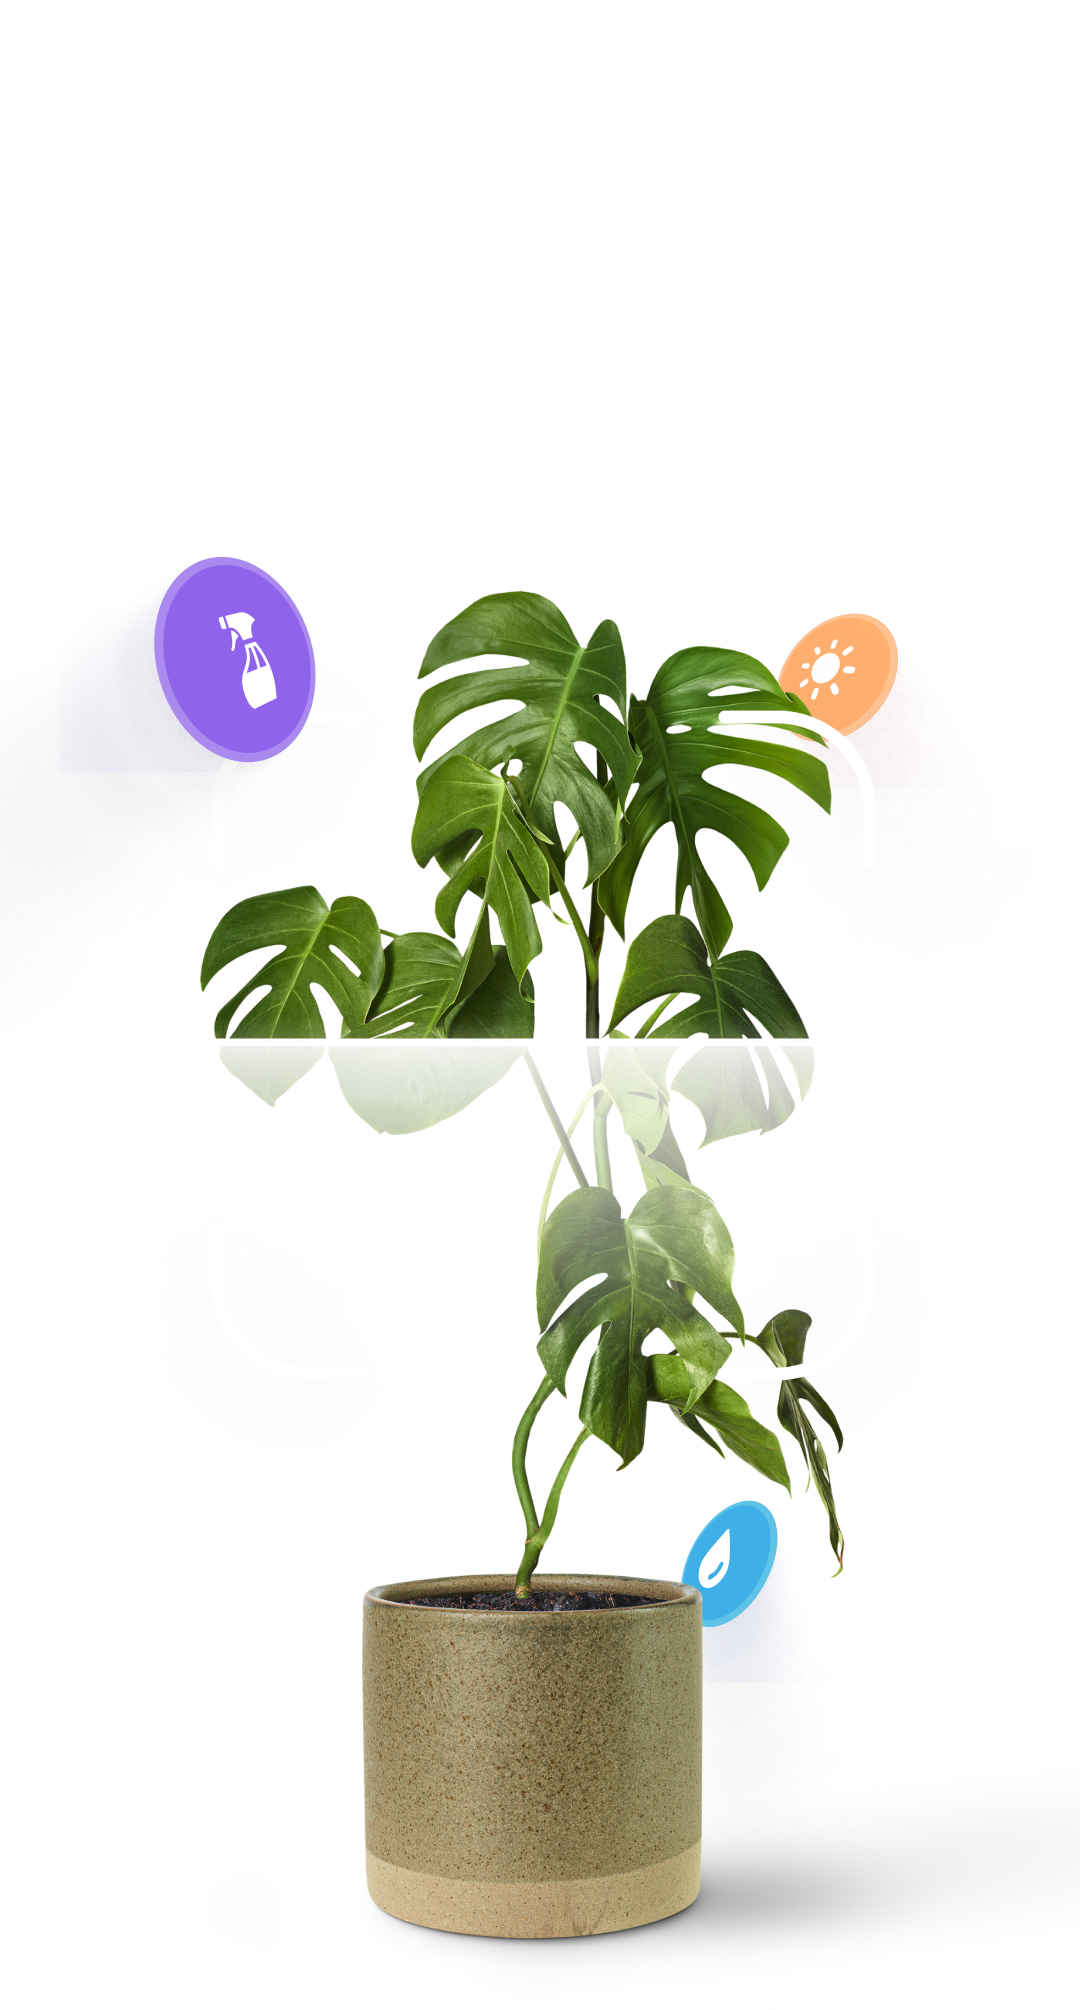
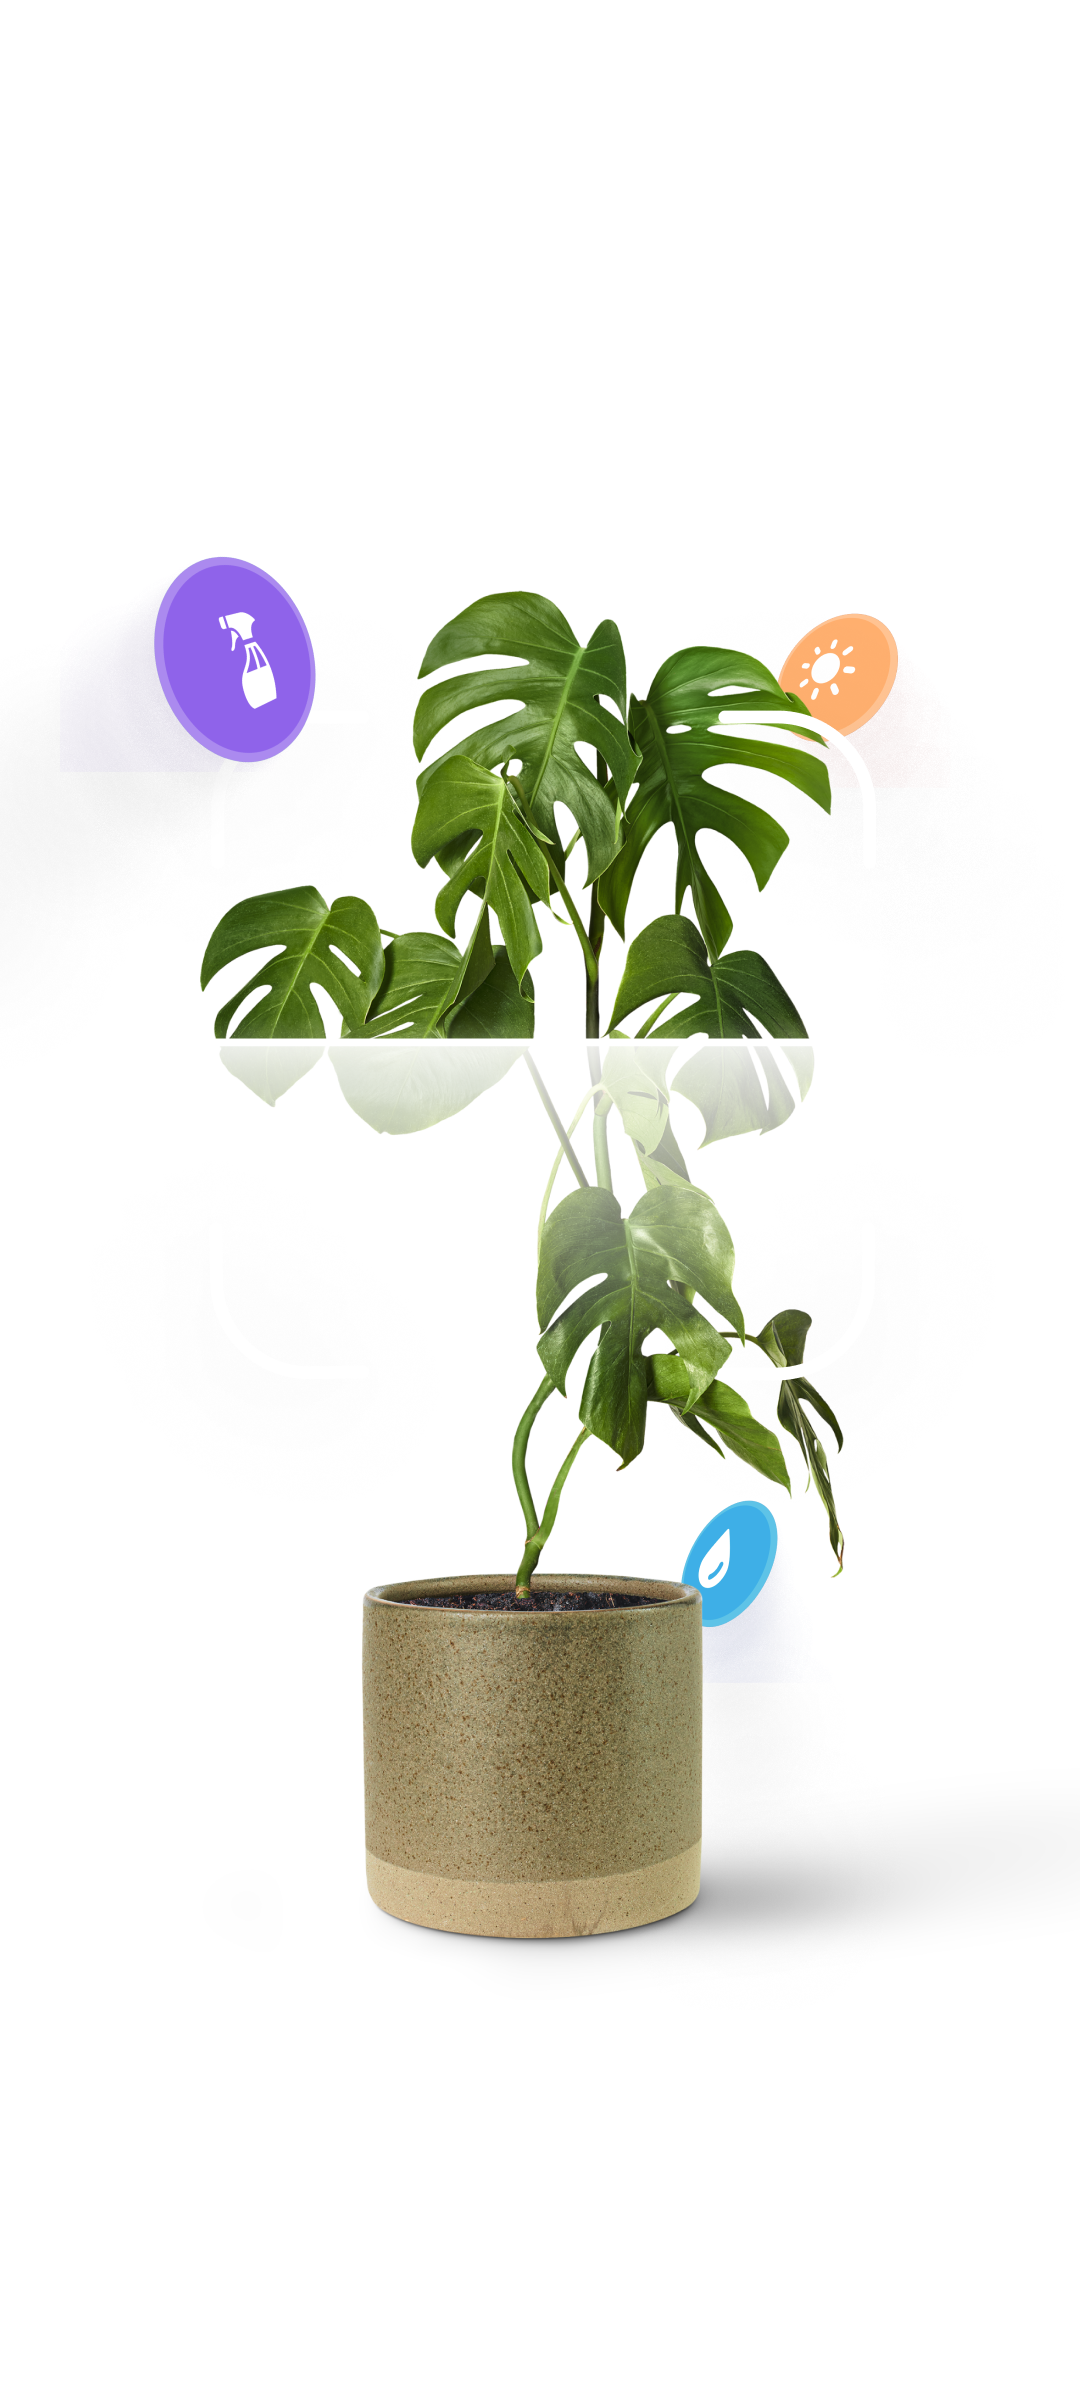
Refactor onboarding layout and implement content widgets
- Refactor `OnboardingWrapper` to use a `Stack` layout, allowing content to overlay full-screen background images
- Create `onboarding_components.dart` containing `OnboardingBodyContent` and `OnboardingFooterContent` with clickable Terms of Use and Privacy Policy links
- Update `OnboardingScreen` to initialize a `PageController` and integrate the new body and footer widgets into the component list
- Update binary image assets for Get Started and Onboarding backgrounds

Changed region(s): [[0.1222, 0.2159, 0.8556, 0.9871]]

diff --git a/lib/features/onboarding/presentation/widgets/onboarding_components.dart b/lib/features/onboarding/presentation/widgets/onboarding_components.dart
@@ -1,0 +1,96 @@
+import 'package:auto_size_text/auto_size_text.dart';
+import 'package:flutter/gestures.dart';
+import 'package:flutter/material.dart';
+import 'package:flutter_screenutil/flutter_screenutil.dart';
+
+class OnboardingBodyContent extends StatelessWidget {
+  const OnboardingBodyContent({required this.pageController, super.key});
+
+  final PageController pageController;
+
+  @override
+  Widget build(BuildContext context) {
+    return SizedBox(
+      height: .2.sh,
+      width: double.infinity,
+      child: Column(
+        crossAxisAlignment: CrossAxisAlignment.start,
+        children: [
+          //Take a photo to <b>identify</b>
+          // the plant!
+          //AutoSizeText.rich(
+          //  textScaleFactor: 1,
+          //  style: TextStyle(fontSize: 28.sp),
+          //  minFontSize: 8,
+          //  overflow: TextOverflow.ellipsis,
+          //  const TextSpan(
+          //    text: 'Take a photo to ',
+          //    style: TextStyle(color: AppColors.secondary, fontWeight: FontWeight.w500),
+          //    children: [
+          //      TextSpan(
+          //        text: 'identify',
+          //        style: TextStyle(fontWeight: FontWeight.w800),
+          //      ),
+          //      TextSpan(
+          //        text: '\nthe plant!',
+          //        style: TextStyle(fontWeight: FontWeight.w500),
+          //      ),
+          //    ],
+          //  ),
+          //  maxLines: 2,
+          //  textAlign: TextAlign.start,
+          //),
+        ],
+      ),
+    );
+  }
+}
+
+class OnboardingFooterContent extends StatelessWidget {
+  const OnboardingFooterContent({super.key, this.onTermsTap, this.onPrivacyTap});
+
+  final VoidCallback? onTermsTap;
+  final VoidCallback? onPrivacyTap;
+
+  @override
+  Widget build(BuildContext context) {
+    return Flexible(
+      child: AutoSizeText.rich(
+        style: TextStyle(fontSize: 11.sp),
+        minFontSize: 4,
+        overflow: TextOverflow.ellipsis,
+        TextSpan(
+          text: 'By tapping next, you are agreeing to PlantID\n',
+          children: [
+            TextSpan(
+              text: 'Terms of Use',
+              recognizer: TapGestureRecognizer()..onTap = onTermsTap,
+              style: const TextStyle(
+                decoration: TextDecoration.underline,
+                decorationStyle: TextDecorationStyle.solid,
+              ),
+            ),
+            const TextSpan(
+              text: ' & ',
+              style: TextStyle(decoration: TextDecoration.none),
+            ),
+            TextSpan(
+              text: 'Privacy Policy',
+              recognizer: TapGestureRecognizer()..onTap = onPrivacyTap,
+              style: const TextStyle(
+                decoration: TextDecoration.underline,
+                decorationStyle: TextDecorationStyle.solid,
+              ),
+            ),
+            const TextSpan(
+              text: '.',
+              style: TextStyle(decoration: TextDecoration.none),
+            ),
+          ],
+        ),
+        maxLines: 2,
+        textAlign: TextAlign.center,
+      ),
+    );
+  }
+}

diff --git a/lib/features/onboarding/presentation/widgets/onboarding_wrapper.dart b/lib/features/onboarding/presentation/widgets/onboarding_wrapper.dart
@@ -21,41 +21,48 @@ class OnboardingWrapper extends StatelessWidget {
   @override
   Widget build(BuildContext context) {
     return SafeArea(
-      child: Column(
+      child: Stack(
         children: [
-          Expanded(
+          Positioned.fill(
             child: AnimatedContainer(
               duration: const Duration(milliseconds: 300),
-              width: double.infinity,
-              padding: EdgeInsets.only(left: 20.w, right: 20.w, top: 22.h),
               decoration: BoxDecoration(
                 image: DecorationImage(
                   image: AssetImage(backgroundImagePath),
                   fit: BoxFit.fitHeight,
                 ),
               ),
-              child: bodyContent,
             ),
           ),
-          SizedBox(
-            height: .16.sh,
-            width: double.infinity,
-            child: Padding(
-              padding: EdgeInsets.only(left: 20.w, right: 20.w, bottom: 4.h),
-              child: Column(
-                children: [
-                  FilledButton(
-                    onPressed: onButtonPressed,
-                    style: ButtonStyle(
-                      fixedSize: WidgetStatePropertyAll(Size(double.infinity, 56.h)),
-                    ),
-                    child: AutoSizeText(buttonText, style: TextStyle(fontSize: 16.sp)),
-                  ),
-                  SizedBox(height: 16.h),
-                  footerContent,
-                ],
+          Column(
+            children: [
+              Expanded(
+                child: Padding(
+                  padding: EdgeInsets.only(left: 20.w, right: 20.w, top: 22.h),
+                  child: bodyContent,
+                ),
               ),
-            ),
+              SizedBox(
+                height: .16.sh,
+                width: double.infinity,
+                child: Padding(
+                  padding: EdgeInsets.only(left: 20.w, right: 20.w, bottom: 4.h),
+                  child: Column(
+                    children: [
+                      FilledButton(
+                        onPressed: onButtonPressed,
+                        style: ButtonStyle(
+                          fixedSize: WidgetStatePropertyAll(Size(double.infinity, 56.h)),
+                        ),
+                        child: AutoSizeText(buttonText, style: TextStyle(fontSize: 16.sp)),
+                      ),
+                      SizedBox(height: 16.h),
+                      footerContent,
+                    ],
+                  ),
+                ),
+              ),
+            ],
           ),
         ],
       ),

diff --git a/lib/features/onboarding/presentation/pages/onboarding_screen.dart b/lib/features/onboarding/presentation/pages/onboarding_screen.dart
@@ -5,6 +5,7 @@ import 'package:plantapp/core/constants/app_constants.dart';
 import 'package:plantapp/core/init/dependency_injection.dart';
 import 'package:plantapp/features/onboarding/presentation/cubit/onboarding_cubit.dart';
 import 'package:plantapp/features/onboarding/presentation/widgets/get_started_components.dart';
+import 'package:plantapp/features/onboarding/presentation/widgets/onboarding_components.dart';
 import 'package:plantapp/features/onboarding/presentation/widgets/onboarding_wrapper.dart';
 
 @RoutePage()
@@ -24,6 +25,20 @@ class _OnboardingScreenState extends State<OnboardingScreen> {
     setState(() => _currentIndex++);
   }
 
+  late PageController _pageController;
+
+  @override
+  void initState() {
+    _pageController = PageController();
+    super.initState();
+  }
+
+  @override
+  void dispose() {
+    _pageController.dispose();
+    super.dispose();
+  }
+
   List<(Widget bodyContent, String backgroundImagePath, String buttonText, VoidCallback onButtonPressed, Widget footerContent)> get _onboardingComponents => [
     (
       const GetStartedBodyContent(),
@@ -36,18 +51,11 @@ class _OnboardingScreenState extends State<OnboardingScreen> {
       ),
     ),
     (
-      const GetStartedBodyContent(),
+      OnboardingBodyContent(pageController: _pageController),
       AppAssets.onboardingBackground1,
       AppStrings.continueText,
-      _goToNextPage,
-      const SizedBox(),
-    ),
-    (
-    const GetStartedBodyContent(),
-    AppAssets.onboardingBackground2,
-    AppStrings.continueText,
-    _goToNextPage,
-    const SizedBox(),
+      () {},
+      const OnboardingFooterContent(),
     ),
   ];
 
